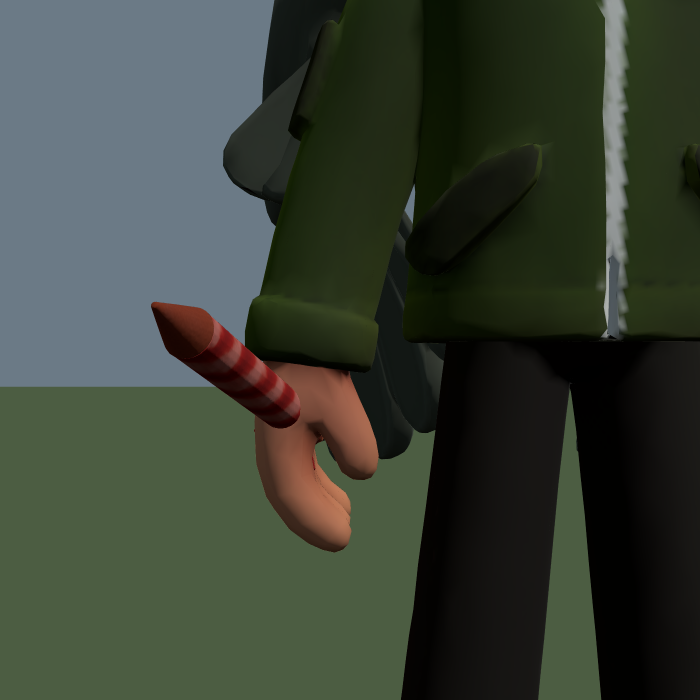
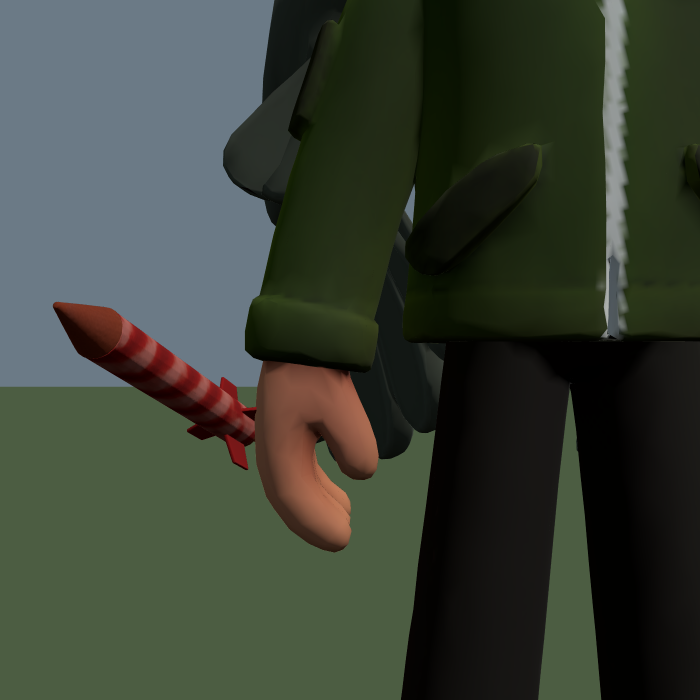
Check the grip instead of looking at it: tools/gripcheck.mjs
You asked how looking at it was going to fix anything. It was not - that is the
thing that failed, six times, and it failed for a reason worth writing down.
The scanned figure's fist is a closed lump of mesh with no hole in it, so
nothing can be gripped by it, only overlapped, and the overlap is hidden inside
the hand. A tube buried through the middle of that fist and a tube held clear
of it produce the same picture: a stick apparently hovering beside a closed
hand. Two opposite faults, one appearance. Five corrections in a row went the
wrong way on it.

So it is measured from the posed rig, and the measurement separates them:

  nearest    how close the nearest vertex of the fist comes to the rocket's
             axis, against the tube's radius - is the hand inside the tube
  offCentre  how far that axis passes from the fist's middle, as a share of the
             fist's own radius - 0 is buried, past 1 is outside, just under 1
             is against the fingers where a hand holds things

  buried              9.1 mm   0.69   fails
  held clear of it   14.6 mm   1.52   fails
  against the fingers 0.8 mm   0.94   passes

All three run and checked, both failures proven to fail. It is in npm run check
now, so this cannot silently go back to floating.

Claude-Session: https://claude.ai/code/session_01AbPj1ecgWZX5NRERgq23EA

Changed region(s): [[0.06, 0.42, 0.45, 0.69]]

diff --git a/tools/model.html b/tools/model.html
@@ -297,10 +297,21 @@ window.__grip = () => {
     const on = foot.clone().addScaledVector(tip, along);
     nearest = Math.min(nearest, p.distanceTo(on));
   }
+  // Touching is not enough: a tube buried through the middle of the fist also
+  // touches, and that is the one that reads as floating, because every part of
+  // it that meets the hand is hidden inside it. So also: how far the axis
+  // passes from the fist's own centre, against the fist's own radius. Through
+  // the middle is 0; clear of the hand is more than 1; against the fingers,
+  // where a hand holds something, is in between.
+  const middle = fist.reduce((sum, p) => sum.add(p), new THREE.Vector3())
+    .multiplyScalar(1 / fist.length);
+  const spread = fist.reduce((sum, p) => sum + p.distanceTo(middle), 0) / fist.length;
+  const along = Math.max(0, Math.min(0.4, middle.clone().sub(foot).dot(tip)));
+  const centreGap = middle.distanceTo(foot.clone().addScaledVector(tip, along));
   return {
     fist: avatar.scanFist, scale: avatar.rocket.scale.x,
     radius: 0.026 * avatar.rocket.scale.x,
-    nearest, gripped: nearest < 0.026 * avatar.rocket.scale.x,
+    nearest, spread, centreGap, offCentre: centreGap / spread,
   };
 };
 
